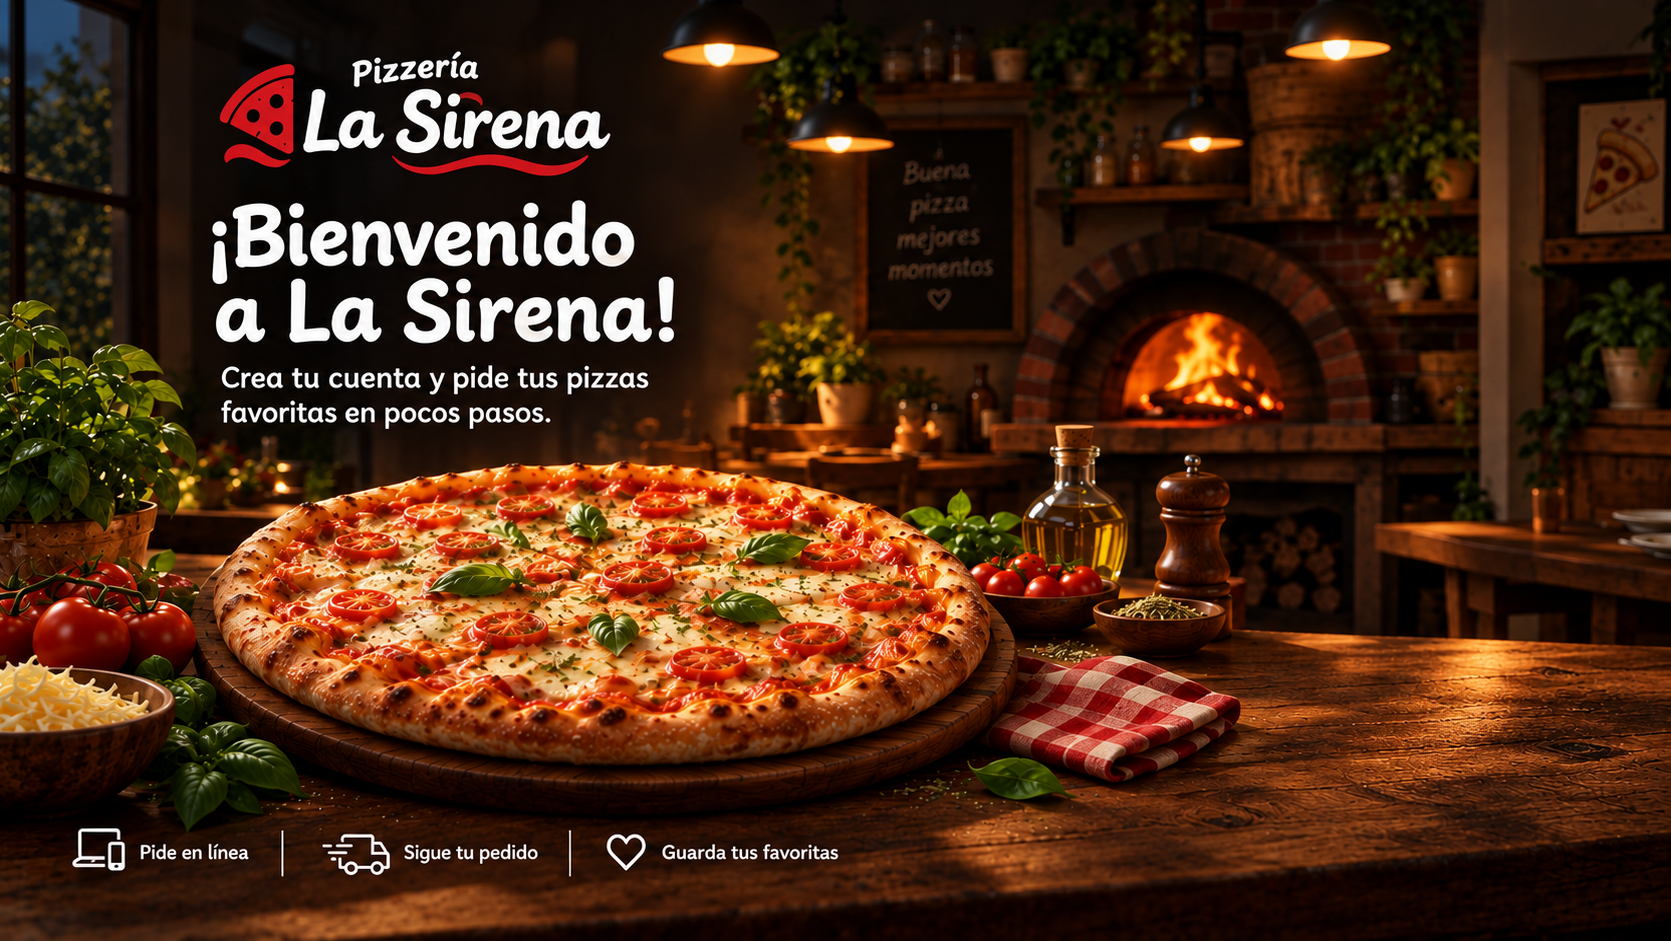
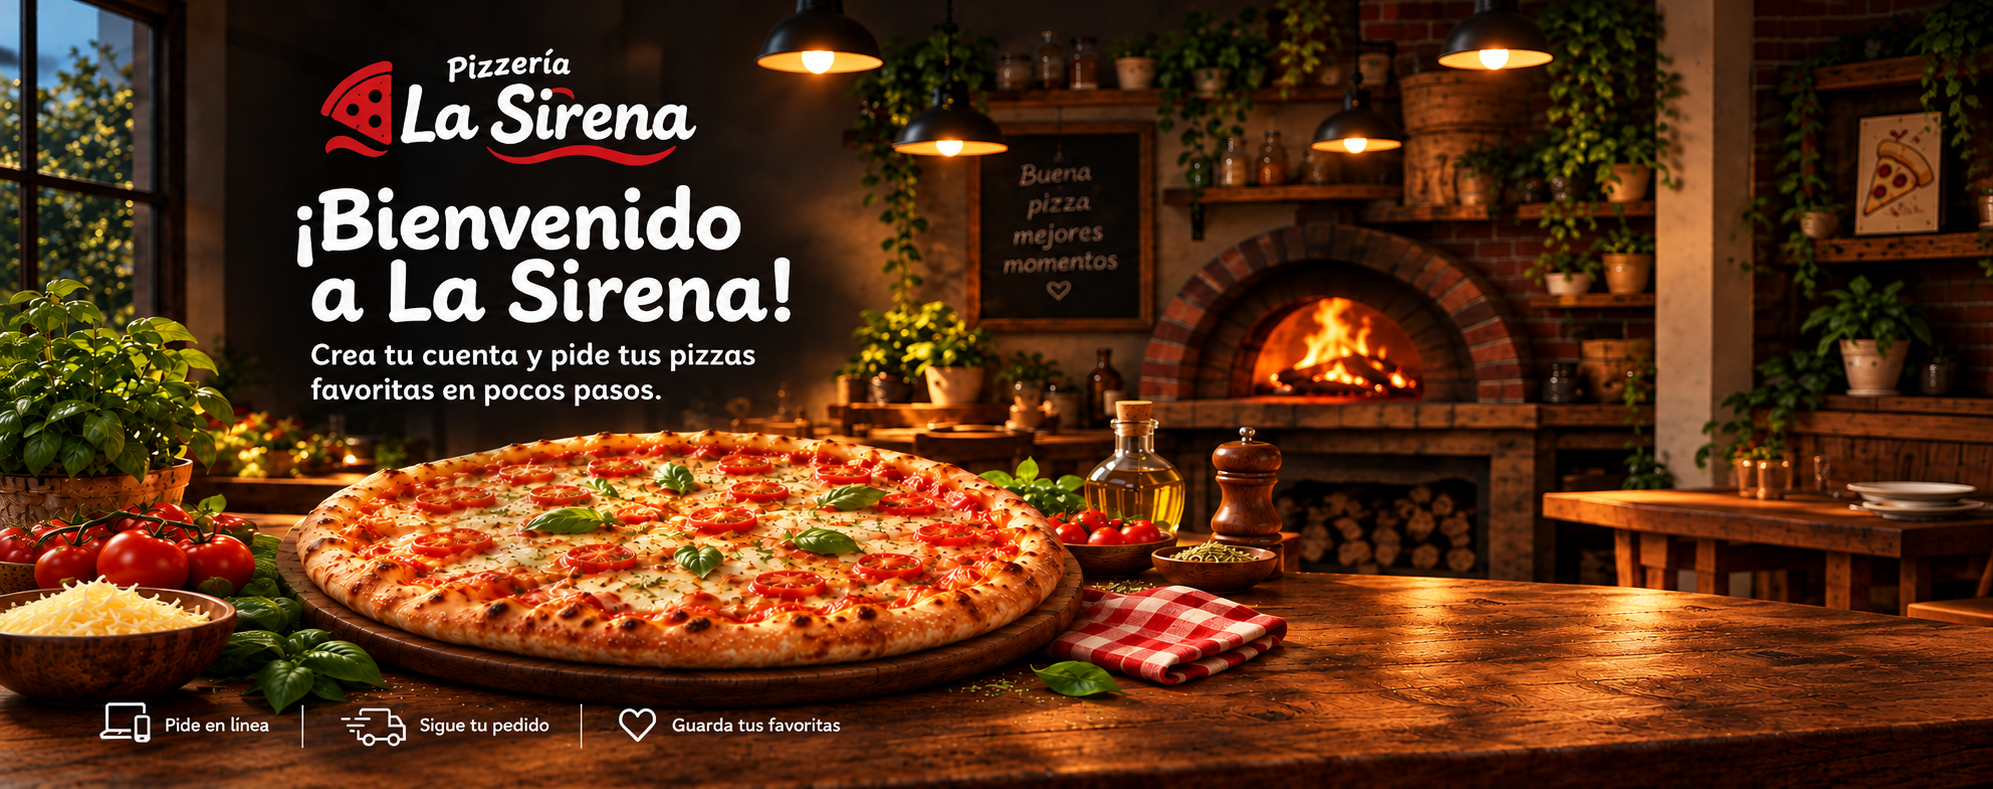
Auth: fondos extendidos claro/oscuro con cover

diff --git a/src/App.tsx b/src/App.tsx
@@ -4405,21 +4405,23 @@ function AuthLayout({
     "linear-gradient(to bottom, #85613f 0%, #b57740 15%, #4c4a08 35%, #944a1a 50%, #391101 66%, #ca7331 85%, #2a0c01 100%)";
   const RELLENO_OSCURO =
     "linear-gradient(to bottom, #1e120a 0%, #482710 15%, #17120a 30%, #391503 50%, #0a0200 66%, #401b08 85%, #000000 100%)";
-  const FUNDIDO_BORDE = "linear-gradient(to right, #000 92%, transparent 100%)";
   return (
     <div className="relative min-h-screen bg-muted">
       {/* Fondo unico de TODA la pantalla, con IMAGEN POR TEMA.
 
-          `bienvenido-la-sirena-light.webp` (1672x941) y
-          `bienvenido-la-sirena-dark.webp` (1671x941) son las dos versiones de la
-          misma escena de bienvenida: logo de Pizzeria La Sirena, titulo,
-          subtitulo y tres beneficios a la IZQUIERDA; el lado derecho (horno y
-          cocina) es decoracion pura y es donde se apoya la tarjeta.
+          `bienvenido-la-sirena-light.webp` (1994x789) y
+          `bienvenido-la-sirena-dark.webp` (1993x789) son las dos versiones de la
+          misma escena de bienvenida EXTENDIDA (~2.5:1): logo de Pizzeria La
+          Sirena, titulo, subtitulo y tres beneficios a la IZQUIERDA; el lado
+          derecho (horno y cocina) es decoracion pura y es donde se apoya la
+          tarjeta. Su ratio ya cubre holgadamente cualquier escritorio, asi que
+          NO hace falta relleno lateral, copia desenfocada ni mascara de
+          fundido: una sola capa `cover` basta.
 
-          Se usan los .webp (226 KB y 205 KB) y no los .png originales (2.26 MB y
-          2.08 MB) porque el peso al vuelo se reduce ~90%. Los .png renombrados
-          siguen en `src/assets/img/` como respaldo, pero NO se importan, asi que
-          no entran al build.
+          Se usan los .webp (252 KB y 222 KB) y no los .png originales (2.42 MB
+          y 2.20 MB) porque el peso al vuelo se reduce ~90%. Los .png siguen en
+          `src/assets/img/` como respaldo, pero NO se importan, asi que no
+          entran al build.
 
           POR QUE DOS CAPAS Y NO UN `src={darkMode ? a : b}`:
           con un solo `<img>` el cambio de tema obliga a descargar la imagen nueva
@@ -4432,48 +4434,20 @@ function AuthLayout({
           prop desde el `useState` de App, asi que al pulsar la luna la capa
           visible se cruza al instante y sin recargar la pagina.
 
-          POR QUE `background-size: auto 100%` Y NO `cover`:
-          con `cover` la imagen llena los DOS ejes, asi que en una ventana mas
-          ANCHA que su ratio (1.777) se escalaba por el ancho y rebasaba el alto:
-          se recortaba el logo por arriba y los tres beneficios por abajo. Con
-          `auto 100%` la altura SIEMPRE se ve entera (logo, titulo, subtitulo y
-          beneficios incluidos) y lo que sobra es ancho, no alto.
+          CADA CAPA ES UN SOLO DIV HIJO con la imagen del tema:
 
-          ESTRUCTURA DE CADA CAPA (respaldo + copia desenfocada + imagen
-          enmascarada):
+          - `background-size: cover` + `background-position: left center` +
+            `background-repeat: no-repeat` llenan TODO el viewport manteniendo
+            el ratio natural. Gracias al anclaje a la IZQUIERDA, el logo, el
+            titulo, el subtitulo y los tres beneficios (que viven en esa banda
+            izquierda de la foto) SIEMPRE se ven completos y nunca se recortan
+            por ese lado. Cuando la ventana es mas ancha que ~2.5:1 lo que se
+            recorta es solo decoracion por la derecha; `overflow-hidden` del
+            exterior recorta ese desbordamiento.
 
-          1) El div exterior lleva `background: RELLENO_*`, un degradado
-             VERTICAL cuyos paradas son los tonos muestreados en el borde
-             derecho de cada imagen. Hoy es SOLO un respaldo por si la imagen
-             tarda en cargar; el relleno visible del hueco derecho lo pinta la
-             copia desenfocada (2).
-
-          2) La capa intermedia es una COPIA de la misma imagen del tema con
-             `background-size: cover` y `background-position: right center`,
-             que llena TODO el viewport (incluido el hueco a la derecha cuando
-             la ventana es mas ancha que 1.777) con el lado derecho (horno,
-             cocina) desenfocado. `filter: blur(24px)` difumina y
-             `transform: scale(1.1)` evita que el blur deje bordes claros en
-             las esquinas (el `overflow-hidden` del exterior lo recorta).
-
-          3) El div de la imagen principal es igual que siempre, con
-             `aspect-ratio` propio: su alto es el 100% del contenedor y su
-             ancho se deduce de la relacion natural, es decir EXACTAMENTE el
-             ancho de la foto. Gracias a eso el `mask-image` (4) cae siempre
-             sobre el borde derecho real de la imagen, exista o no hueco.
-
-          4) `mask-image: linear-gradient(to right, #000 92%, transparent 100%)`
-             desvanece el filo derecho de la imagen: los ultimos 8% de su ancho
-             se funden hacia transparente y dejan ver la copia desenfocada (2)
-             de atras. Es el degradado horizontal suave que evita el corte
-             brusco y hace que el texto pintado de la foto (que vive a la
-             IZQUIERDA, lejos del filo) nunca se recorte.
-
-          `background-position: left center` + `background-repeat: no-repeat`
-          anclan la foto al borde IZQUIERDO, que es donde vive todo su texto:
-          cuando la imagen resulta mas ancha que la ventana se recorta por la
-          derecha (decoracion) y nunca por logo ni textos. `overflow-hidden` en
-          el exterior es lo que recorta ese desbordamiento.
+          - El div exterior lleva `background: RELLENO_*`, un degradado VERTICAL
+            cuyos paradas son los tonos muestreados en el borde derecho de cada
+            imagen. Hoy es SOLO un respaldo por si la imagen tarda en cargar.
 
           El `bg-muted` del contenedor se conserva como red de seguridad para el
           breve instante en que aun no ha llegado ninguna de las dos.
@@ -4494,24 +4468,8 @@ function AuthLayout({
             inset: 0,
             backgroundImage: `url(${fondoBienvenidoLight})`,
             backgroundSize: "cover",
-            backgroundPosition: "right center",
-            filter: "blur(24px)",
-            transform: "scale(1.1)",
-          }}
-        />
-        <div
-          style={{
-            position: "absolute",
-            left: 0,
-            top: 0,
-            height: "100%",
-            aspectRatio: "1672 / 941",
-            backgroundImage: `url(${fondoBienvenidoLight})`,
-            backgroundSize: "auto 100%",
             backgroundPosition: "left center",
             backgroundRepeat: "no-repeat",
-            maskImage: FUNDIDO_BORDE,
-            WebkitMaskImage: FUNDIDO_BORDE,
           }}
         />
       </div>
@@ -4528,24 +4486,8 @@ function AuthLayout({
             inset: 0,
             backgroundImage: `url(${fondoBienvenidoDark})`,
             backgroundSize: "cover",
-            backgroundPosition: "right center",
-            filter: "blur(24px)",
-            transform: "scale(1.1)",
-          }}
-        />
-        <div
-          style={{
-            position: "absolute",
-            left: 0,
-            top: 0,
-            height: "100%",
-            aspectRatio: "1671 / 941",
-            backgroundImage: `url(${fondoBienvenidoDark})`,
-            backgroundSize: "auto 100%",
             backgroundPosition: "left center",
             backgroundRepeat: "no-repeat",
-            maskImage: FUNDIDO_BORDE,
-            WebkitMaskImage: FUNDIDO_BORDE,
           }}
         />
       </div>
@@ -4744,7 +4686,7 @@ function LoginScreen({
 
   return (
     <AuthLayout
-      contentClassName="items-start justify-center sm:justify-end px-4 py-6 lg:px-8 lg:pr-16 xl:pr-24"
+      contentClassName="items-start justify-center sm:justify-end px-4 py-6 lg:px-8 lg:pr-16 xl:pr-12"
       darkMode={darkMode}
       overlay={
         <AnimatePresence>
@@ -5788,7 +5730,7 @@ function RegisterScreen({
    };
 
    return (
-    <AuthLayout contentClassName="items-start justify-center sm:justify-end px-4 py-3 lg:px-8 lg:pr-16 xl:pr-24" darkMode={darkMode}>
+    <AuthLayout contentClassName="items-start justify-center sm:justify-end px-4 py-3 lg:px-8 lg:pr-16 xl:pr-12" darkMode={darkMode}>
       <motion.div
         initial={{ opacity: 0, y: 20 }}
         animate={{ opacity: 1, y: 0 }}
